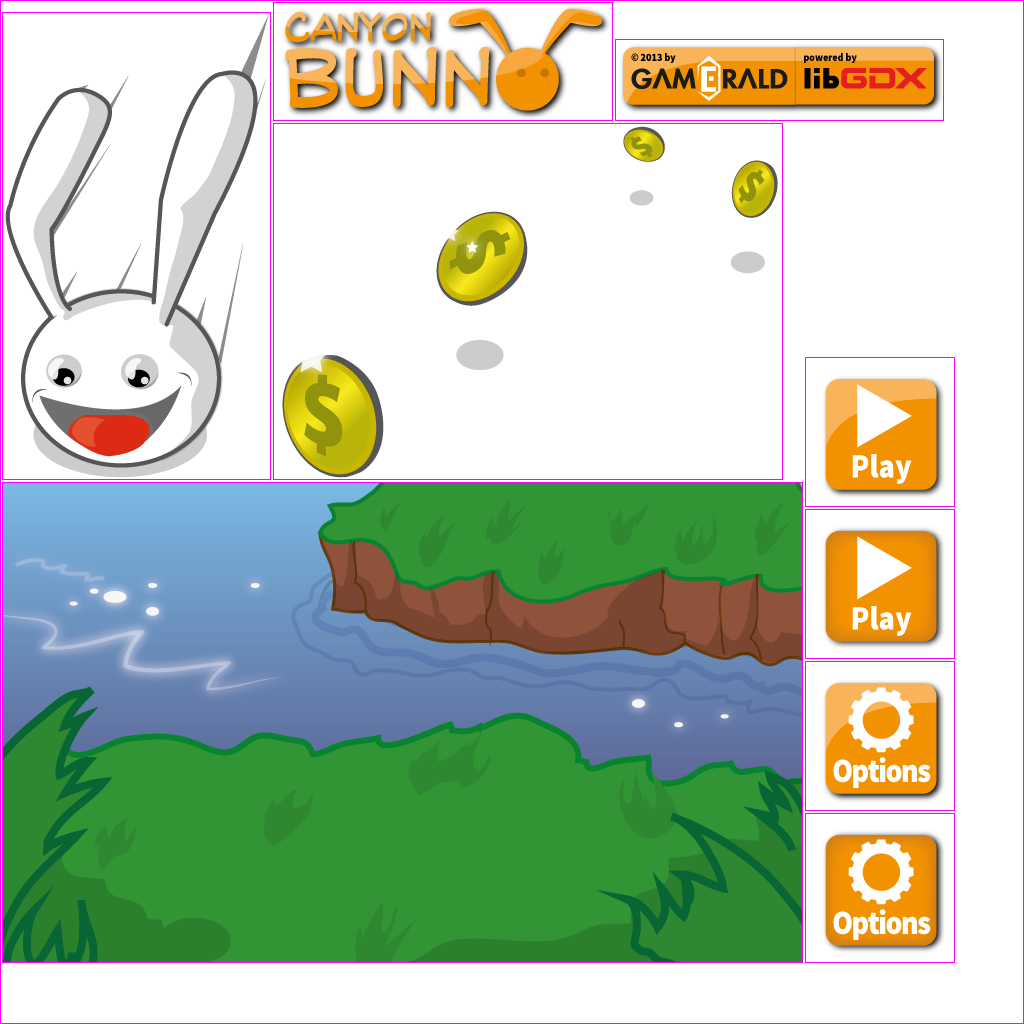
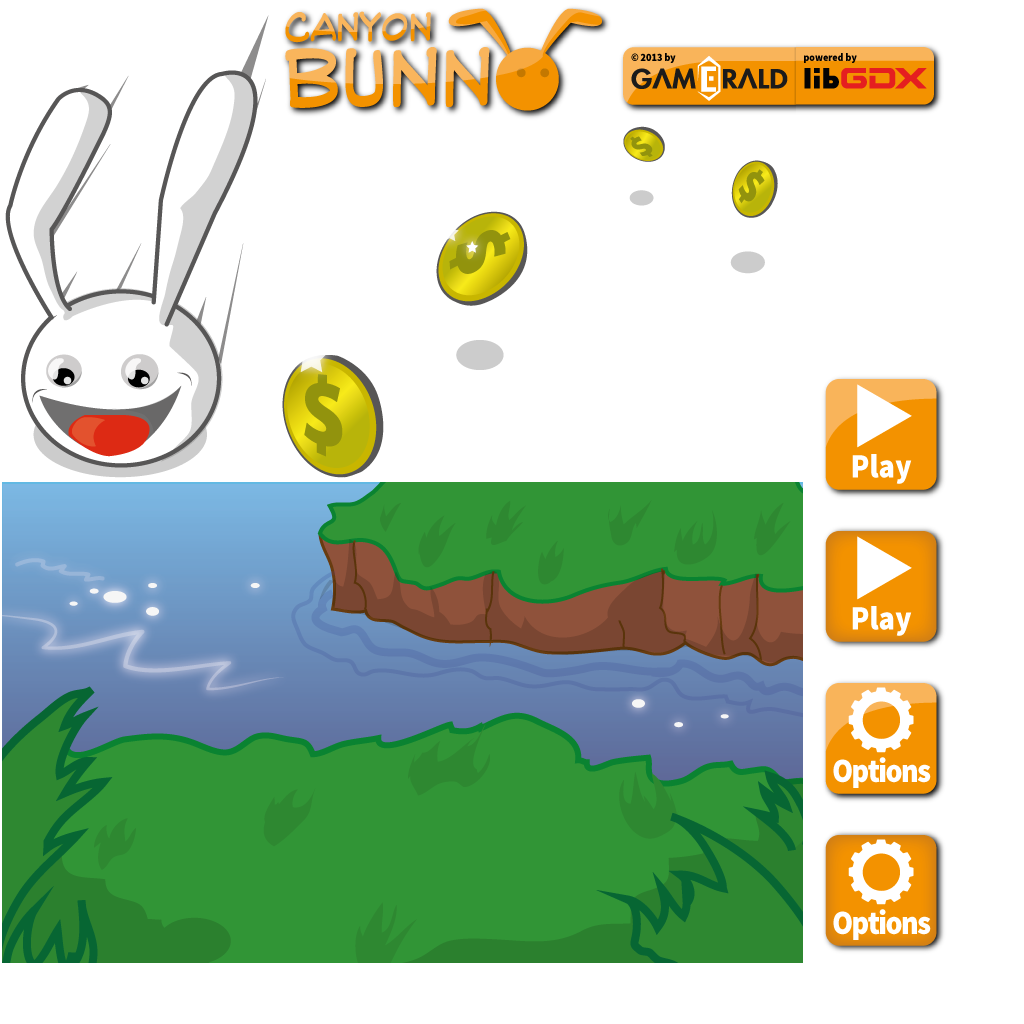
animation assets
added images for animation of goldcoin and bunnyhead and repacked atlases - now crashes during animation of bunnyhead

diff --git a/core/src/com/packtpub/libgdx/canyonbunny/game/objects/BunnyHead.java b/core/src/com/packtpub/libgdx/canyonbunny/game/objects/BunnyHead.java
@@ -291,12 +291,6 @@ public class BunnyHead extends AbstractGameObject
 			dimCorrectionY = 0.2f;
 		}
 		
-		//set special color when game object has a feather powerup
-		if(hasFeatherPowerup)
-		{
-			batch.setColor(1.0f, 0.8f, 0.0f, 1.0f);
-		}
-		
 		//draw image
 		reg = (TextureRegion) animation.getKeyFrame(stateTime, true);
 		

diff --git a/desktop/src/com/packtpub/libgdx/canyonbunny/Main.java b/desktop/src/com/packtpub/libgdx/canyonbunny/Main.java
@@ -18,7 +18,7 @@ import com.packtpub.libgdx.canyonbunny.CanyonBunnyMain;
 public class Main 
 {
 	private static boolean rebuildAtlas = false;
-	private static boolean drawDebugOutline = true;
+	private static boolean drawDebugOutline = false;
 	
 	public static void main (String[] args) 
 	{   
